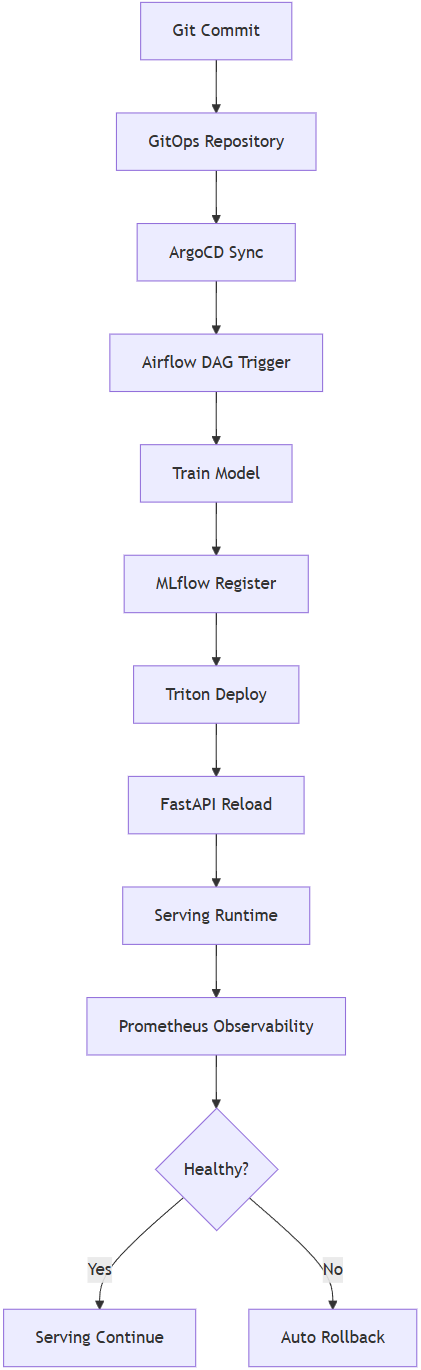
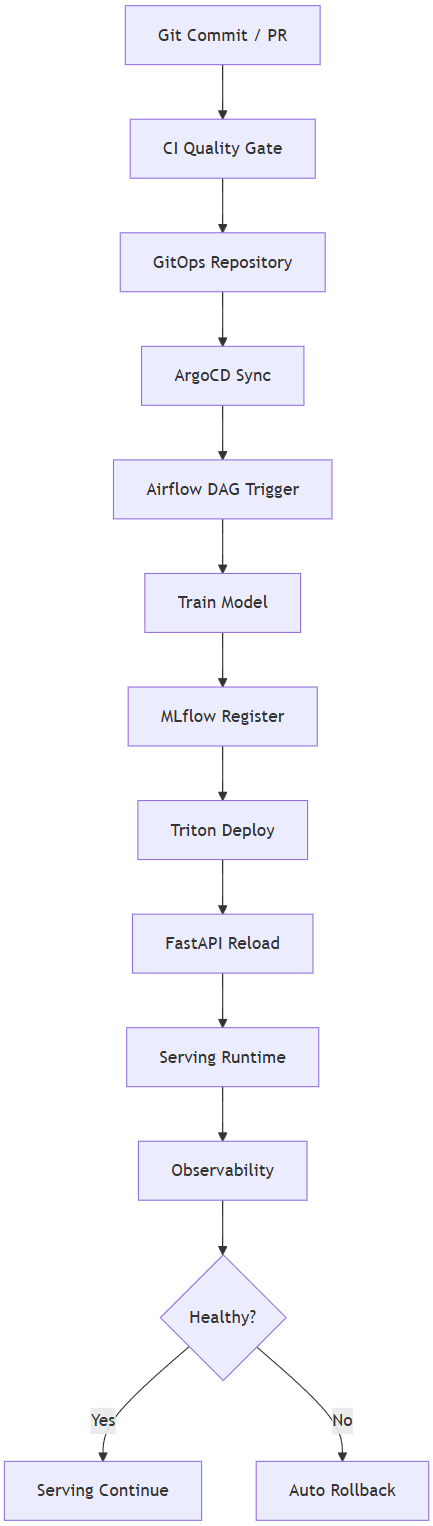
add: gitops-platform-e2e epilog CI validation

diff --git a/content/projects/mlops_pipeline_e2e/01.md b/content/projects/mlops_pipeline_e2e/01.md
@@ -229,29 +229,30 @@ FastAPI Reload 완료
 
 # 🔁 One Commit Flow
 
-이 플랫폼은 GitOps 기반으로 **한 번의 커밋으로 전체 운영 흐름이 자동 실행되는 구조**를 목표로 설계되었습니다.
+이 플랫폼은 GitOps 기반으로  **Commit 또는 PR로 전체 운영 흐름이 자동 실행되는 구조**를 목표로 설계되었습니다.
 
 ![proof-gitops-platform-e2e-epilog-03.png](/mlops-journey/images/proof-gitops-platform-e2e-epilog-03.png)
 
 즉 플랫폼의 전체 흐름은 다음과 같이 자동화됩니다.
 
 ```
-Commit
-→ Deploy
-→ Train
-→ Register
-→ Serve
-→ Observe
-→ Recover
+Commit / PR
+→ CI Validation
+→ GitOps Deploy (ArgoCD)
+→ Airflow Pipeline
+→ Model Register
+→ Serving Runtime
+→ Observability
+→ Auto / Manual Rollback
 ```
 
 운영자는 수동 배포 대신
 
 ```
-Git Commit
+Git Commit / PR
 ```
 
-하나로 전체 ML 플랫폼 동작을 제어할 수 있습니다.
+을 통해 전체 ML 플랫폼 운영 흐름을 트리거할 수 있습니다.
 
 ---
 
